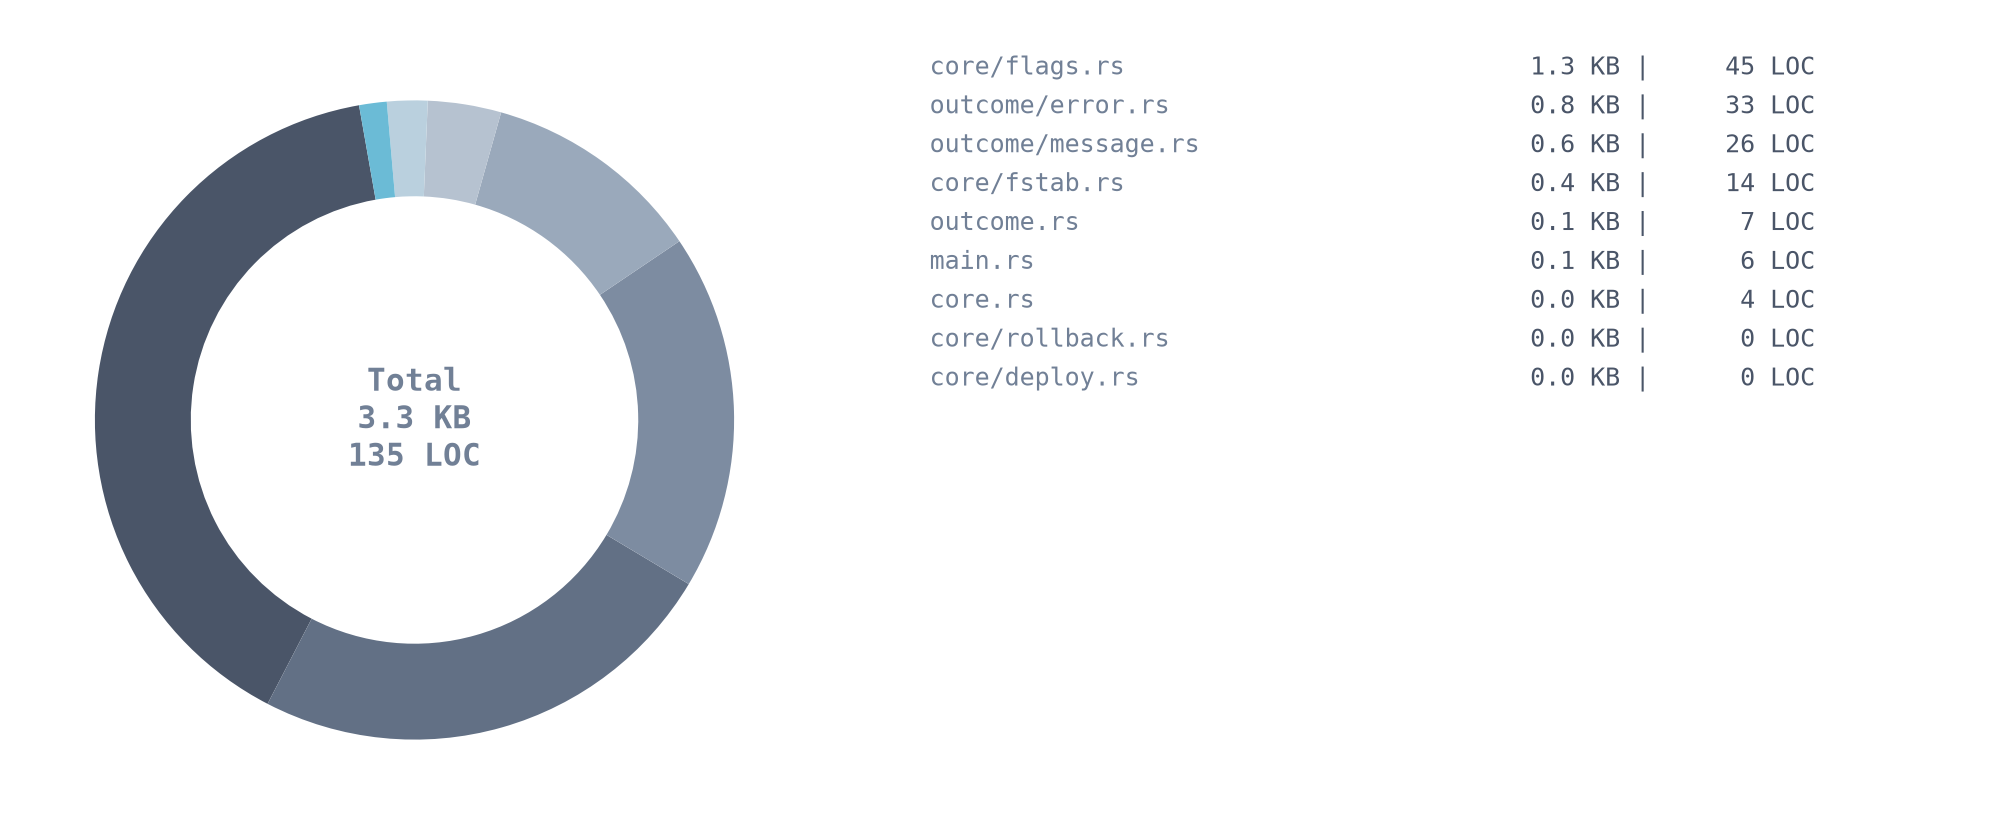
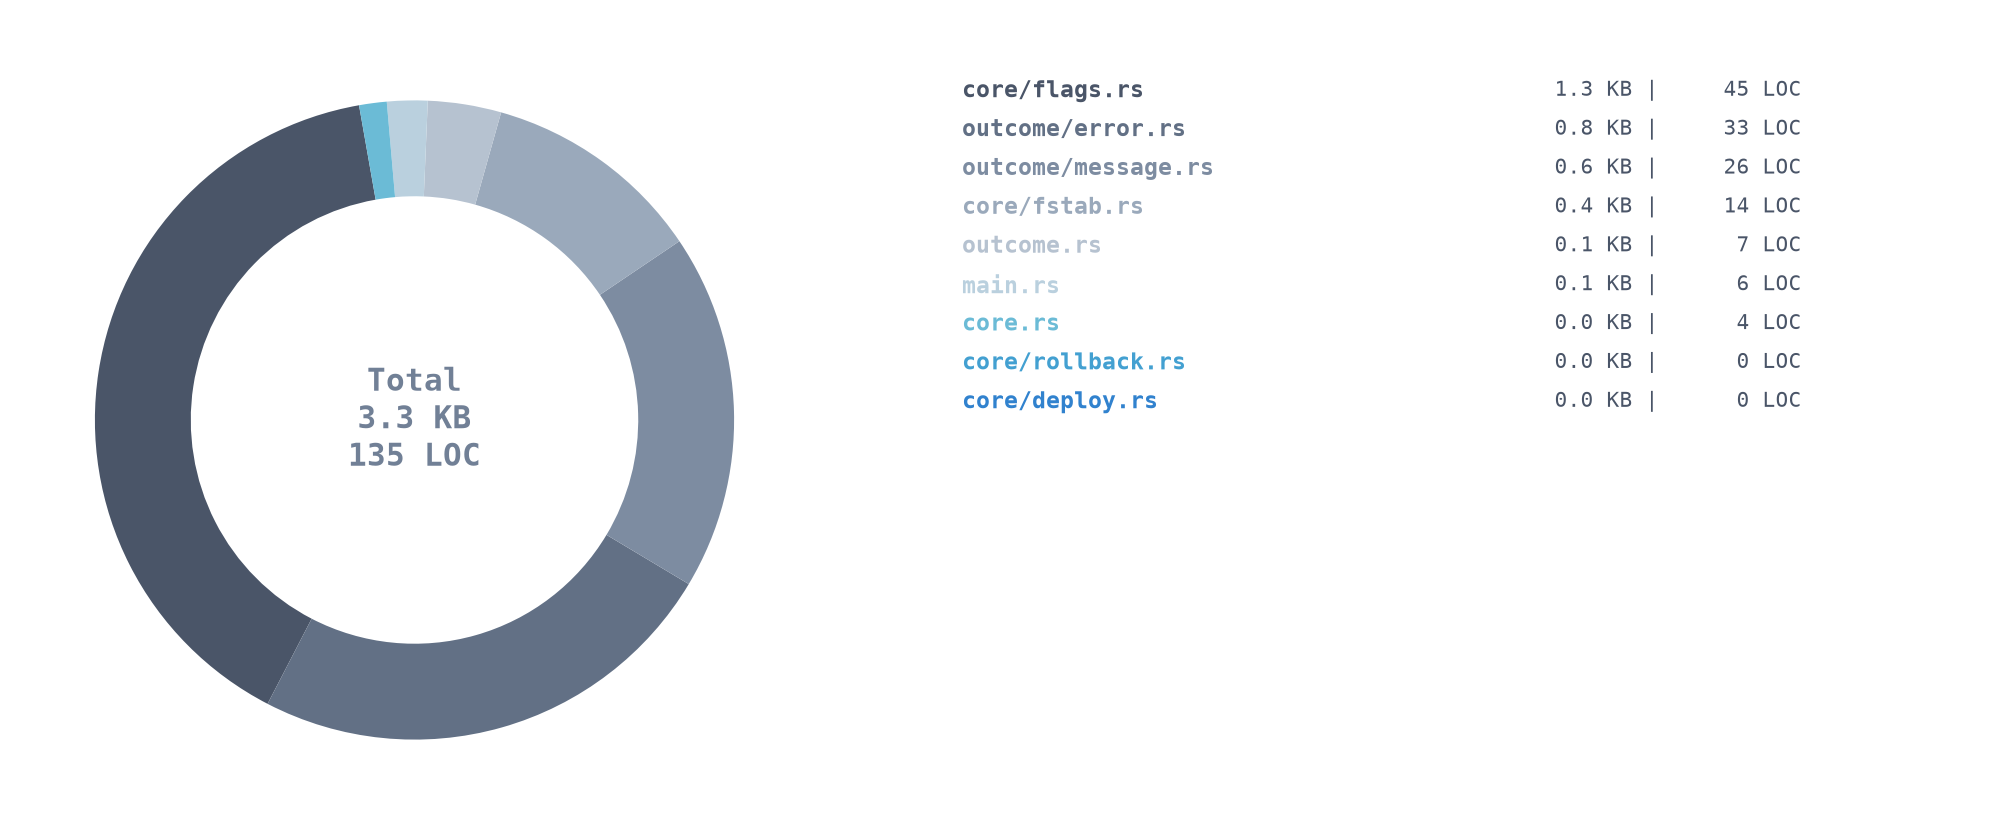
deploy-2026-07-27 17:21:36.764026

Changed region(s): [[0.4641, 0.0619, 0.6188, 0.4952], [0.7735, 0.0619, 0.8353, 0.4952], [0.8663, 0.0619, 0.8972, 0.4952]]

diff --git a/.ci/stats.py b/.ci/stats.py
@@ -6,7 +6,7 @@
 import os
 from pathlib import Path
 from dataclasses import dataclass
-from typing import Dict, List, Set, Tuple
+from typing import Dict, List, Set
 import matplotlib.pyplot as plt
 import matplotlib.colors as mcolors
 import matplotlib.gridspec as gridspec
@@ -90,15 +90,12 @@ class Chart:
         # Левая часть: Пончик-чарт
         ax = fig.add_subplot(gs[0], aspect="equal", facecolor='none')
         colors = [self.pie(i / (len(sizes) - 1 or 1)) for i in range(len(sizes))]
-        wedges, texts, autotexts = ax.pie(
-            sizes, 
-            wedgeprops=dict(width=0.3, edgecolor='none'), 
-            startangle=100, 
-            colors=colors,
-            labels=labels,
-            labeldistance=1.15,
-            textprops={'fontsize': 9, 'fontfamily': 'monospace', 'color': '#4a5568'}
-        )
+        
+        ax.pie(sizes, 
+               wedgeprops=dict(width=0.3, edgecolor='none'), 
+               startangle=100, 
+               colors=colors)
+        
         ax.text(0, 0, f"Total\n{totals['size']/1024:.1f} KB\n{totals['loc']} LOC",
                 ha='center', va='center', fontsize=15, color=self.col, fontfamily='monospace', weight='bold')
 
